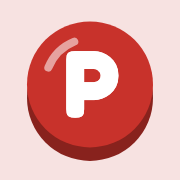
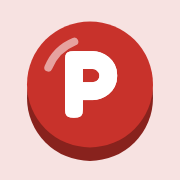
アイコンにてかりを入れて大きくする [skip ci]
小さい版にもてかりを入れ、Pを中央に寄せる。ヘッダーの表示は44pxにする。

diff --git a/scripts/generate_site.py b/scripts/generate_site.py
@@ -38,7 +38,7 @@ header h1 { font-size: 24px; }
 header h1 a { color: var(--text); text-decoration: none;
   display: inline-flex; align-items: center; gap: 8px; }
 /* ロゴは文字とほぼ同じ高さに揃える(96px画像を縮小して表示) */
-header h1 img { width: 32px; height: 32px; }
+header h1 img { width: 44px; height: 44px; }
 header p { color: var(--muted); font-size: 13px; margin-top: 4px; }
 .sites { margin-top: 10px; display: flex; gap: 8px; flex-wrap: wrap;
   align-items: baseline; }
@@ -410,7 +410,7 @@ gtag('config', '{esc(ga_id)}');
 </head>
 <body>
 <header>
-<h1><a href="./" data-google-vignette="false"><img src="assets/logo.png" alt="" width="32" height="32">{esc(CONFIG["site_title"])}</a></h1>
+<h1><a href="./" data-google-vignette="false"><img src="assets/logo.png" alt="" width="44" height="44">{esc(CONFIG["site_title"])}</a></h1>
 <p>{esc(CONFIG["site_description"])} ｜ 割引率とポイント還元率の合計が{data["min_saving_percent"]}%以上の本を掲載 ｜ 最終更新: {updated}</p>
 </header>
 {header_ad}
